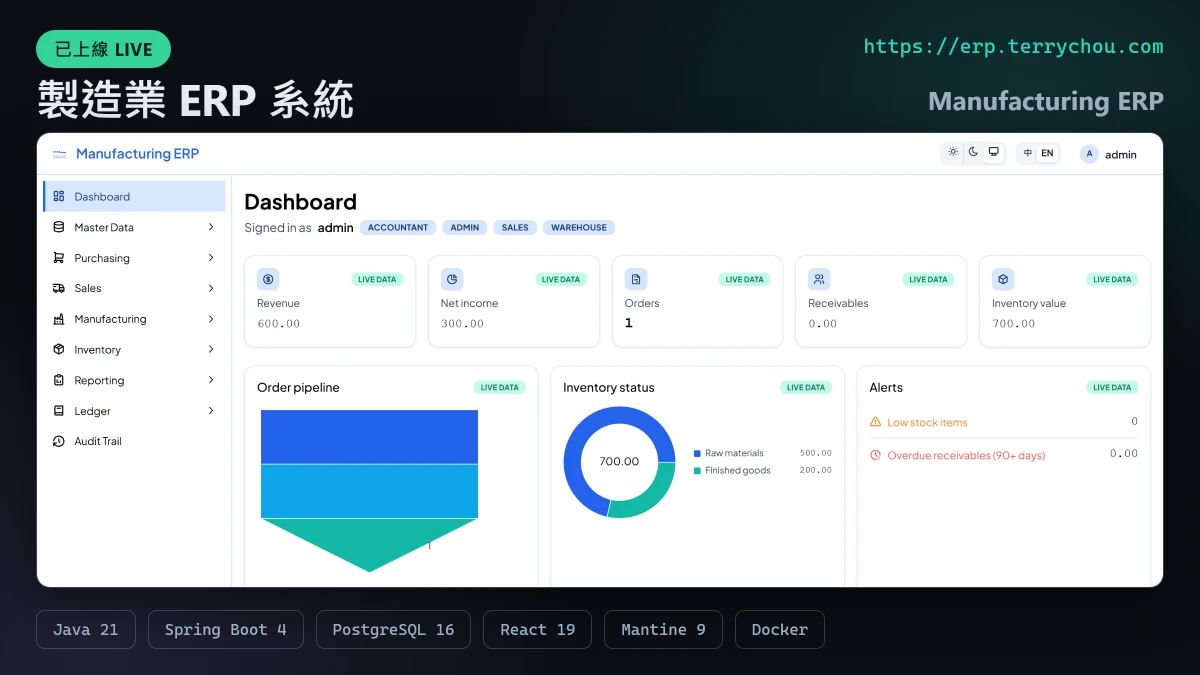
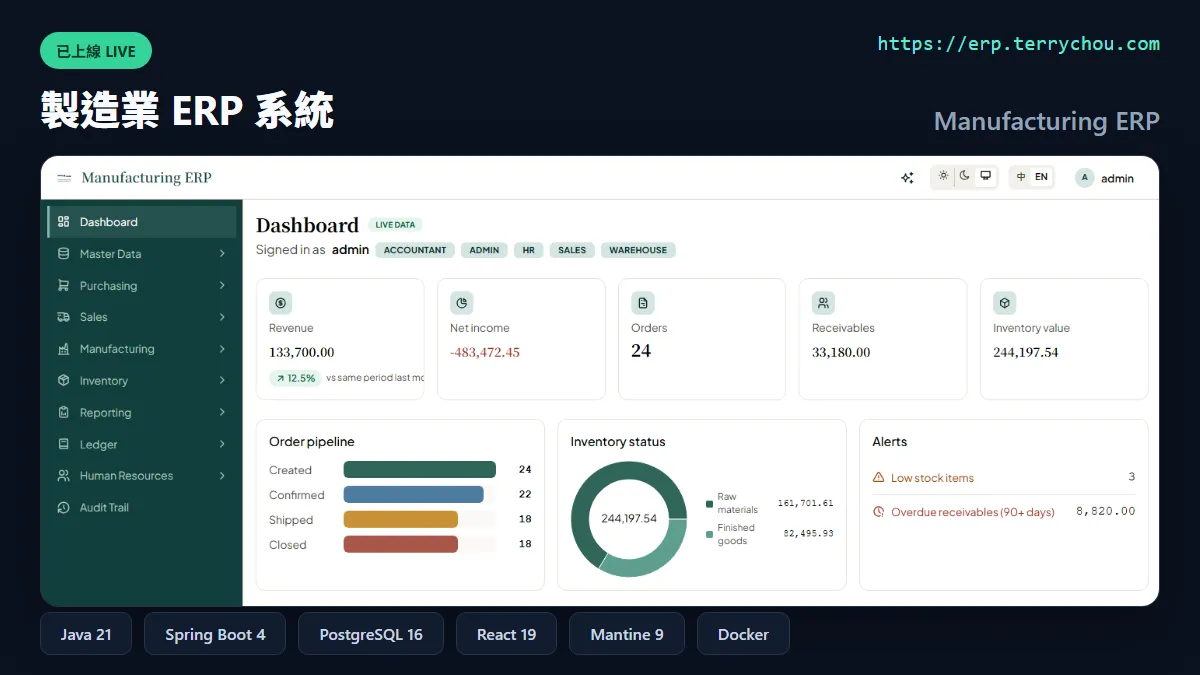
功能: ERP 條目全面更新(墨青帳房 + Copilot)+ discord-auto-bot 移至 Mini (#26)
* 功能: ERP 條目全面更新(墨青帳房 + Copilot)+ 新封面

- descZh/En 全面改寫:後端 12 模組/前端 13 功能模組、測試 212 後端 + 239 前端
  Vitest、RBAC 5 角色、年結/分錄沖正、Ink Ledger 設計系統、ERP Copilot
  (HITL/MCP,誠實註明線上 demo 預設關閉)
- highlights 第 3/4 支、challenges 結尾、demoFeasibility.notes、techStack +3 同步
- 封面換墨青帳房淺色儀表板(同款卡片版式,1200x675 webp)

* 重構: discord-auto-bot 移至 Mini 分類並移出 PDF 履歷

TIER_MAP notable→mini、RESUME_ORDER 移除、註解同步;詳情頁與封面不受影響
(MiniCard 標題仍連 showcase 詳情頁)。

* 修正: turbo build 快取納入根目錄 content/projects.json

apps/main 跨套件匯入 content/projects.json,但 turbo 預設輸入 hash 只含套件內
檔案,純內容變更會吃到過期快取;加 globalDependencies 宣告修正。

* 文件: PROGRESS 記錄 ERP 條目更新/分類搬移/turbo 修正;CLAUDE 補 globalDependencies 約定

---------

diff --git a/apps/main/src/lib/projects.ts b/apps/main/src/lib/projects.ts
@@ -51,8 +51,8 @@ const raw = projectsJson as ProjectsFile;
 /**
  * Tier 對照表(依使用者指定)。
  * featured = ai-deployment-pipeline(碩士論文) / smart-pedestrian-navigation(大學專題)
- * notable  = soulshard-hunter / steam-sale-checker / discord-auto-bot / cyclepact / erp-system
- * mini     = lolhelper / discord-guild-keeper / mini-moba / anime-tracker / ros-ball-chaser(課程專案)
+ * notable  = soulshard-hunter / steam-sale-checker / cyclepact / erp-system
+ * mini     = discord-auto-bot / lolhelper / discord-guild-keeper / mini-moba / anime-tracker / ros-ball-chaser(課程專案)
  * academic = 其餘(放摺疊區)
  * 註:pay-the-money 為 fork,已自 content/projects.json 移除。
  */
@@ -61,9 +61,9 @@ const TIER_MAP: Record<string, Tier> = {
   "smart-pedestrian-navigation": "featured",
   "soulshard-hunter": "notable",
   "steam-sale-checker": "notable",
-  "discord-auto-bot": "notable",
   cyclepact: "notable",
   "erp-system": "notable",
+  "discord-auto-bot": "mini",
   lolhelper: "mini",
   "discord-guild-keeper": "mini",
   "mini-moba": "mini",
@@ -144,7 +144,6 @@ const RESUME_ORDER = [
   "soulshard-hunter",
   "steam-sale-checker",
   "erp-system",
-  "discord-auto-bot",
   "cyclepact",
 ];
 

diff --git a/PROGRESS.md b/PROGRESS.md
@@ -4,6 +4,13 @@
 **全套上線並自動化**:主站 https://terrychou.com、子站 https://soulshard.terrychou.com 皆上線。兩個 repo(portfolio、Soulshard-Hunter)各有獨立 self-hosted runner 與 CI/CD,push 即自動部署;對外經 Cloudflare Tunnel(零入站),主站部署後自動 purge 邊緣快取;Cloudflare Web Analytics 運作中(CWV 全綠)。文件齊備、SEO/分享優化完成。前端已套用 Engineer Dark「立體層次」美化與互動/無障礙修正、專案分層調整;履歷 PDF 改為 ATS 格式(並修掉產線誤渲染首頁的 bug、固定專案順序);子站加上「魂晶」favicon。已上線的 SteamSaleChecker 子站(steam.terrychou.com)以 Notable + showcase(卡片直接 Live)收入作品集(R3,PR #18 已 merge、自動部署中),並順手修掉 live-demo 卡片「看詳情」fallback 首頁的既有 bug。已完成上線的 ERPSystem(erp.terrychou.com)由早期 Phase-0/WIP 條目全面更新為**已完成全端 live app**(showcase + liveUrl、換新封面、移除 WIP 徽章、技能補 Spring Boot/Mantine)。
 
 ## 已完成
+- [2026-07-03] 🖋️ **ERPSystem 條目全面更新(墨青帳房 Ink Ledger + ERP Copilot)**。ERP repo 近一週大幅進展(UI 改版為墨青帳房、新增 Claude Copilot 等),作品集條目同步:
+  - **`content/projects.json` erp-system**:descZh/En 全面改寫——後端 12 模組 / 前端 13 功能模組(具名列滿)、測試更新為後端 81 單元 + 131 整合 = 212(JaCoCo 72%/60%)+ 前端 239 Vitest、RBAC 5 角色 + guest、年度結帳與分錄沖正、「Blue Enterprise」→「墨青帳房(Ink Ledger)」(朱印 SealBadge / 自架 Noto Serif TC 216 分片 / 52 條 WCAG AA 對比測試)、新增 ERP Copilot 段(agent loop、12 工具、HITL 確認卡、以本人 JWT 回打 REST、append-only 稽核、stdio MCP server),並誠實註明 Copilot 於線上 demo 預設關閉(desc 與 demoFeasibility.notes 皆標註)。highlights 第 3 支帶入測試數、第 4 支重寫納入 Copilot + 設計系統;challenges 結尾現況段同步;techStack +3(Vitest / Playwright / Claude API / MCP);oneLiner 刻意不動。
+  - **新封面 `apps/main/public/covers/erp-system.webp`**:改用墨青帳房淺色儀表板截圖(取自 ERP repo docs/screenshots/01-dashboard.png),套 soulshard/steam 同款卡片版式,1200×675 webp、38.6KB;肉眼比對版式一致。
+  - **流程**:/pipeline 分層派工(architect 改文案、implementer 產封面)+ 雙重審查(Opus reviewer + Codex)共 5 條 findings,裁決後修 4 條(13 模組列舉補齊、highlight 英文語意錯置、Copilot caveat 前移至 desc、英文語感微調)、1 條不修(註解順序屬風格)。Codex 的 Windows sandbox 無法讀檔,第二審以貼 diff 方式完成。
+  - **驗證**:typecheck / build(19 頁)/ e2e 3 條全綠;詳情頁與 /print 產物字串驗證、dev server 肉眼確認。
+- [2026-07-03] 📦 **discord-auto-bot 移至 Mini(小品與工具)並移出 PDF 履歷**(使用者指定):`projects.ts` TIER_MAP notable→mini、RESUME_ORDER 移除、註解同步。首頁 Notable 剩 4 張、Mini 6 張;MiniCard 標題仍連 `/projects/discord-auto-bot/` 詳情頁(showcase 不變),封面與 sitemap 不受影響;/print(PDF 履歷)驗證已無此專案。
+- [2026-07-03] 🛠️ **修 turbo build 快取漏算根目錄 `content/projects.json`**:`apps/main` 匯入套件目錄外的 `content/projects.json`,但 turbo 預設輸入 hash 只含套件內檔案,導致「只改內容 JSON」時 build 吃到過期快取(本次驗證時實際踩到)。`turbo.json` 加 `globalDependencies: ["content/projects.json"]` 修正。
 - [2026-07-01] 🔵 **ERPSystem 改藍色(Blue Enterprise):換封面 + 描述文字同步**。ERP 前端已由 Warm Terracotta 換成藍色企業風(#2563EB)並上線,故更新作品集這一側:
   - **封面 `public/covers/erp-system.webp`**:重拍為**藍色版** ERP 總覽儀表板(KPI + 訂單漏斗 + 庫存甜甜圈),沿用 soulshard/steam 同款卡片版式(已上線 LIVE 徽章 + 中英標題 + URL + 圓角框住的截圖 + 技術 chips),1200×675 webp。作法:以本機 ERP build(dist)+ Playwright 攔 `/api` mock 出藍色儀表板圖、Chromium canvas 轉 webp;肉眼確認版式與其他封面一致。
   - **`content/projects.json` erp-system**:`descZh` / `descEn` 的「Warm Terracotta 設計系統」改「Blue Enterprise 設計系統」(其餘描述不動)。

diff --git a/CLAUDE.md b/CLAUDE.md
@@ -4,6 +4,7 @@
 
 ## 技術與工具
 - 套件管理:**pnpm**(workspaces);任務編排:**Turborepo**(`turbo.json`)。
+- 根目錄 `content/projects.json` 由 `apps/main` 跨套件匯入,已列入 `turbo.json` 的 `globalDependencies`;日後若新增其他「套件外輸入檔」也要同步宣告,否則 turbo build 快取不會因它變更而失效。
 - 前端:Next.js 15(App Router、`output: 'export'` 靜態匯出)、React 19、TypeScript、Tailwind。
 - 共用設計系統放 `packages/ui`,各 app 透過 workspace 相依引用,**不複製貼上元件**。
 - e2e/smoke:**Playwright**(`apps/main/e2e/`),對 build 後的 `out/` 起本機 `serve` 驗證;已納入 `ci.yml`(build 後跑)。